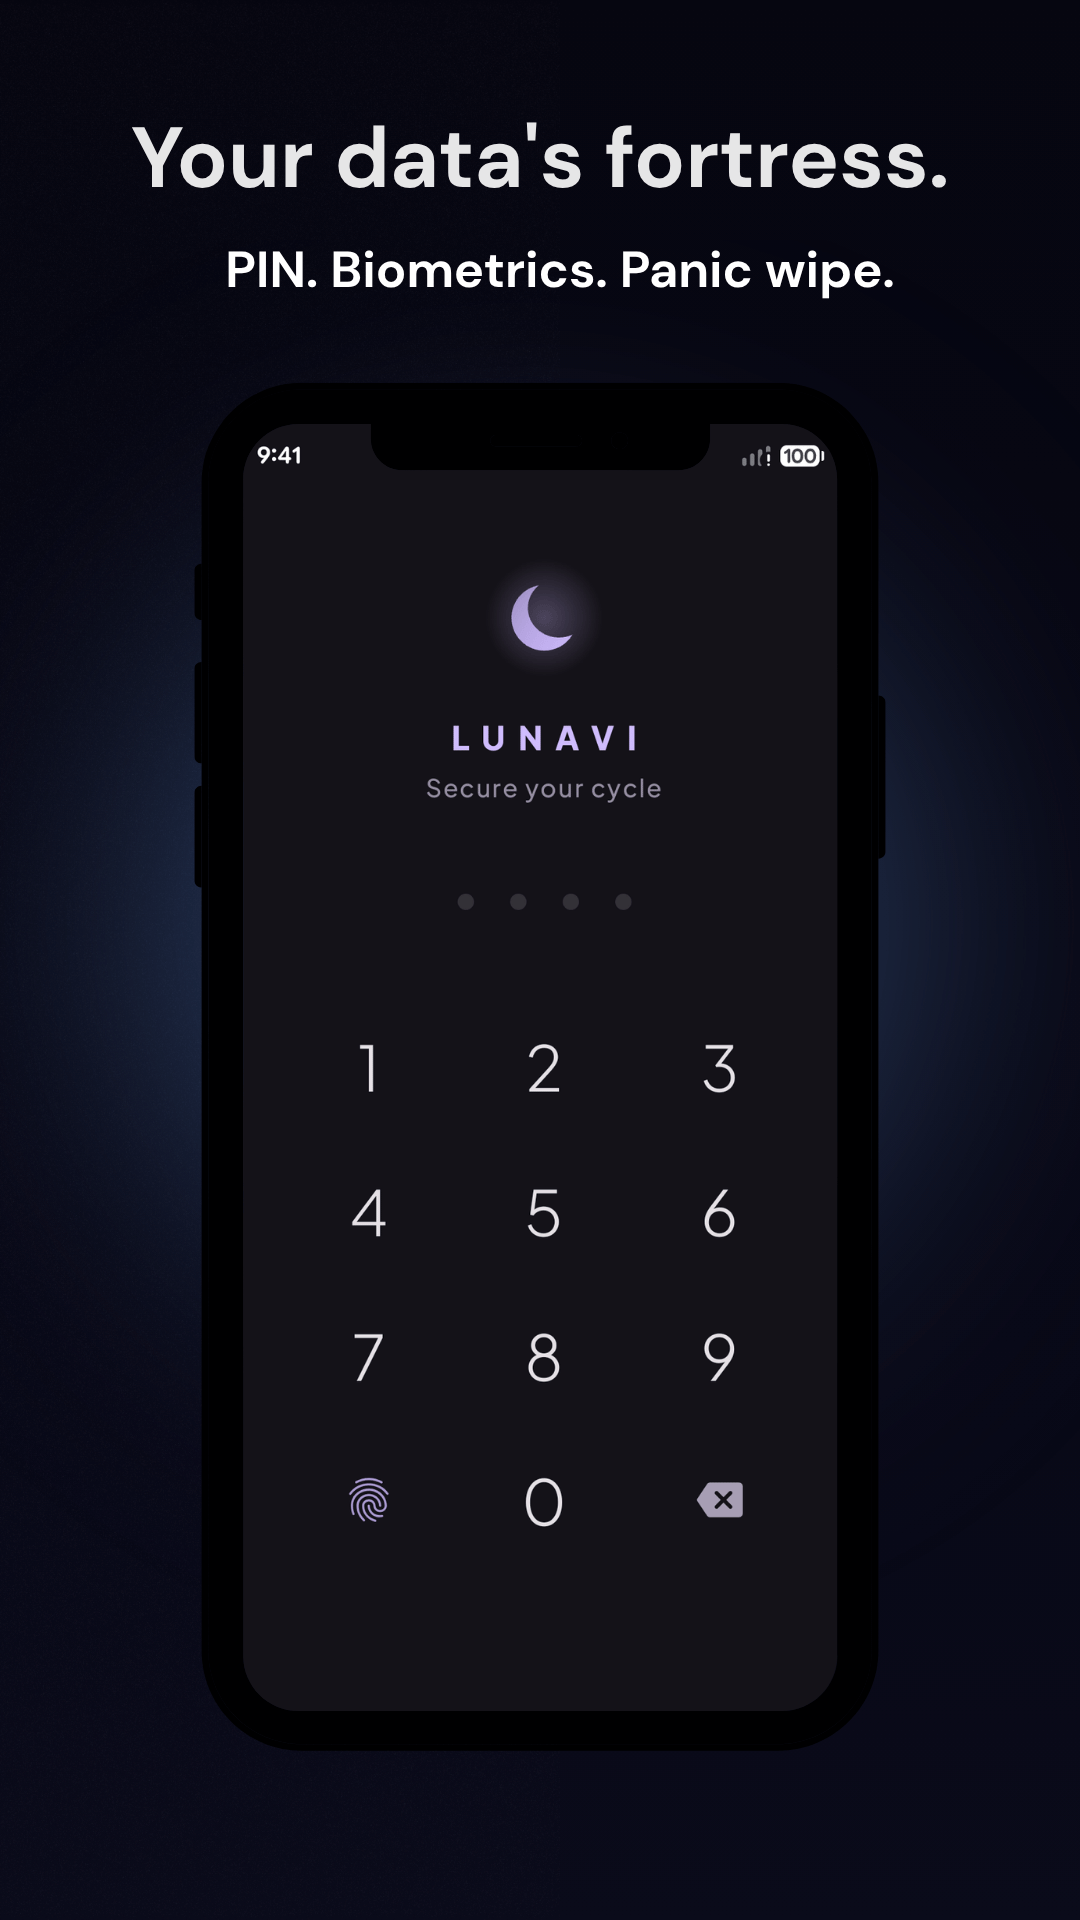
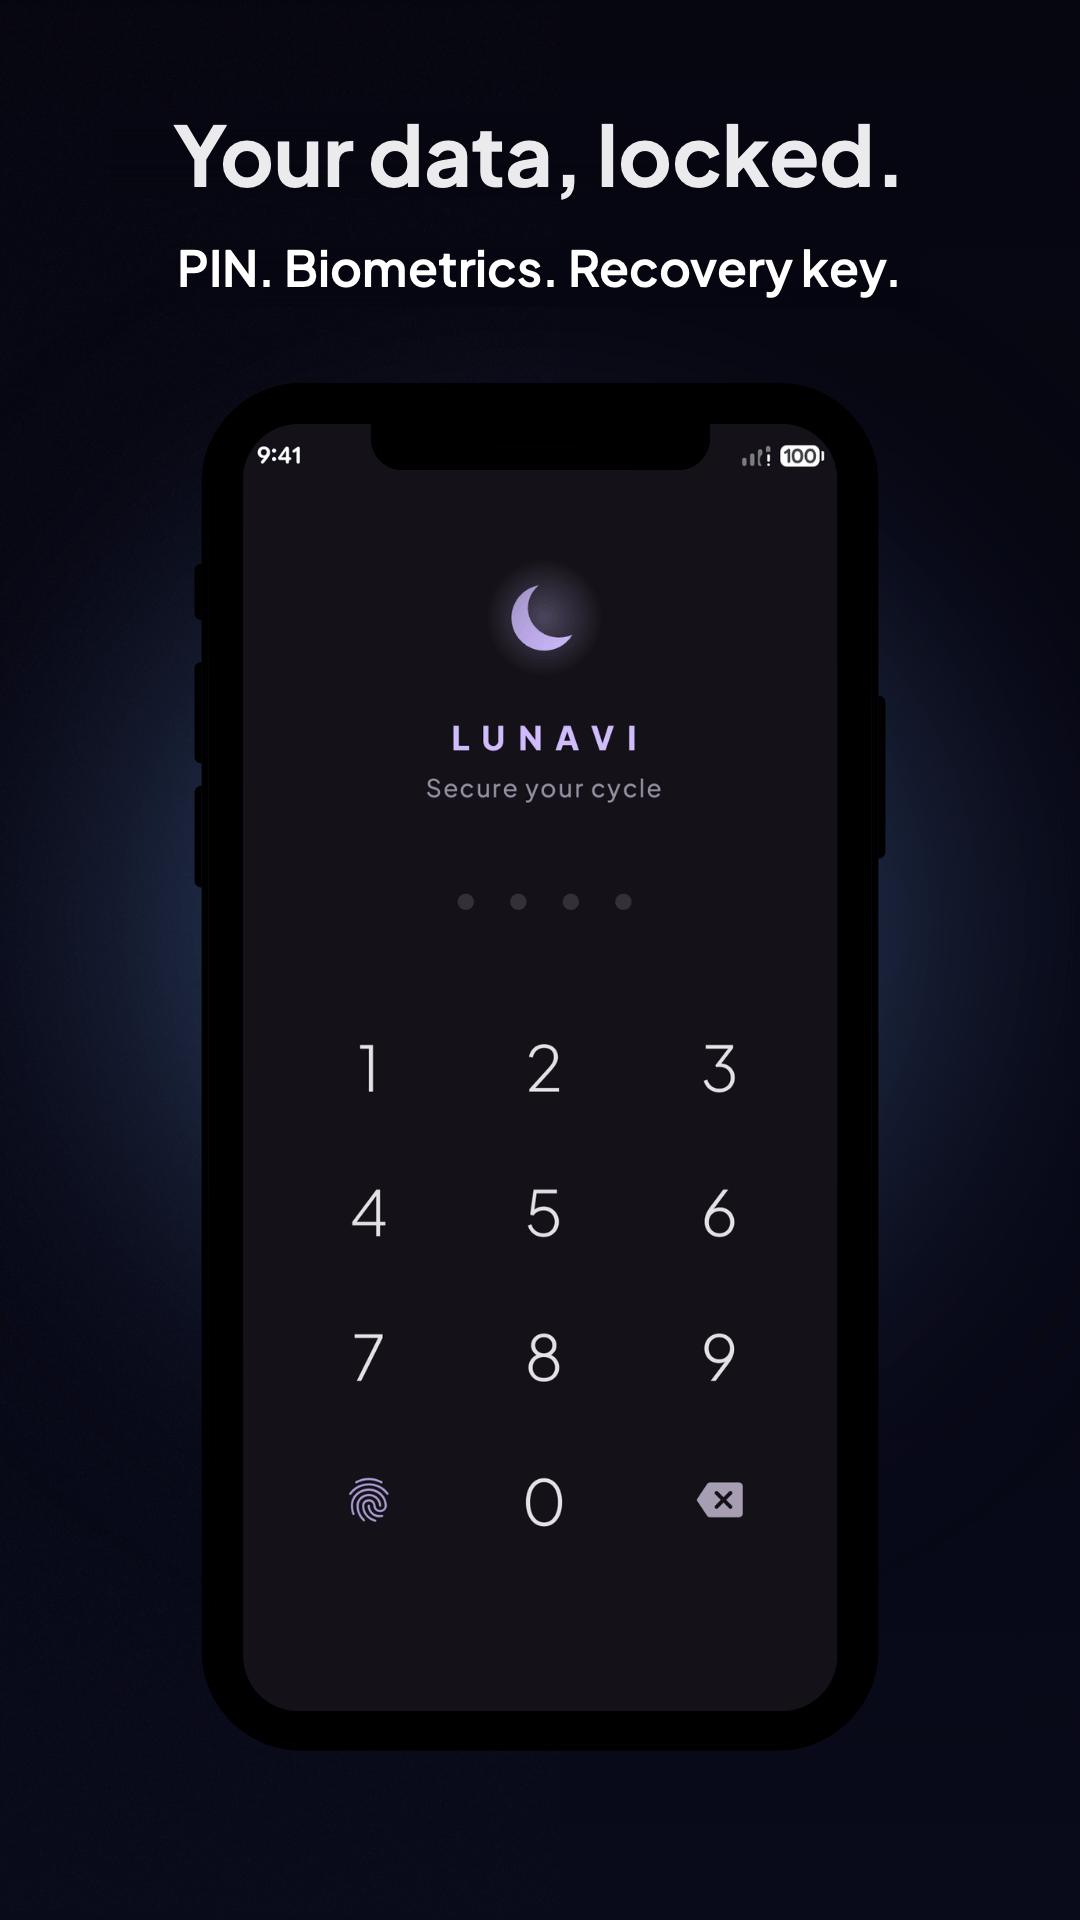
fix: correct Lunavi page claims and add Play stats
Remove AI, panic wipe and other claims the app does not support from the
Lunavi page, the home page card and the README. Align the page title and
medical disclaimer with the store listing.

Replace screenshots 1, 2, 4 and 6 and the hero image chip, delete
screenshot 8, and remap the feature screenshots to match their text.

Show rating, ratings and reviews, and downloads in the stats strip, in
the same layout as the other app pages.

Changed region(s): [[0.1222, 0.0625, 0.8556, 0.1562]]

diff --git a/apps/lunavi/index.html b/apps/lunavi/index.html
@@ -4,11 +4,11 @@
   <meta charset="UTF-8">
   <link rel="icon" type="image/png" href="/assets/developer_logo.png">
   <meta name="viewport" content="width=device-width, initial-scale=1.0">
-  <title>Lunavi — Cycle Tracker & Ovulation App | Abhi Labs</title>
-  <meta name="description" content="Offline period tracker &amp; ovulation predictor for Android. AI cycle predictions on-device. No cloud, no ads, no subscription.">
+  <title>Lunavi — Offline Period Tracker &amp; Ovulation App | Abhi Labs</title>
+  <meta name="description" content="Offline period tracker &amp; ovulation predictor for Android. Cycle predictions run on your device. No cloud, no ads, no subscription.">
   <link rel="canonical" href="https://abhilabs.app/apps/lunavi/">
-  <meta property="og:title" content="Lunavi — Cycle Tracker & Ovulation App">
-  <meta property="og:description" content="AI ovulation predictions and cycle tracking entirely on your device. No cloud, no ads, no compromise.">
+  <meta property="og:title" content="Lunavi — Offline Period Tracker &amp; Ovulation App">
+  <meta property="og:description" content="Ovulation predictions and cycle tracking entirely on your device. No cloud, no ads, no compromise.">
   <meta property="og:url" content="https://abhilabs.app/apps/lunavi/">
   <meta property="og:type" content="website">
   <meta name="twitter:card" content="summary_large_image">
@@ -28,7 +28,7 @@
     "@context": "https://schema.org",
     "@type": "MobileApplication",
     "name": "Lunavi",
-    "description": "Offline period tracker and ovulation predictor for Android. AI cycle predictions on-device. No cloud, no ads, no subscription.",
+    "description": "Offline period tracker and ovulation predictor for Android. Cycle predictions run on your device. No cloud, no ads, no subscription.",
     "operatingSystem": "Android",
     "applicationCategory": "HealthApplication",
     "applicationSubCategory": "Women's Health",
@@ -72,11 +72,11 @@
   <section class="app-hero" aria-label="Lunavi overview">
     <div class="app-hero__text">
       <img src="assets/applogo.png" alt="Lunavi icon" class="app-hero__icon" width="64" height="64" loading="eager">
-      <p class="app-hero__label">Cycle Tracker · Abhi Labs</p>
+      <p class="app-hero__label">Offline Period Tracker · Abhi Labs</p>
       <h1 class="app-hero__title">Lunavi</h1>
       <p class="app-hero__tagline">Your cycle, your data. No cloud. No compromise.</p>
       <ul class="app-hero__bullets">
-        <li>AI ovulation predictions</li>
+        <li>Ovulation predictions from your own cycle</li>
         <li>100% offline — zero cloud</li>
         <li>Zero advertisements, ever</li>
       </ul>
@@ -120,48 +120,48 @@
         </div>
       </div>
       <div class="feature-scroll__content">
-        <div class="feature-item is-active" data-screenshot="assets/1.png">
+        <div class="feature-item is-active" data-screenshot="assets/5.png">
           <span class="feature-num" aria-hidden="true">01</span>
-          <h2 class="feature-name">AI Ovulation Predictions</h2>
-          <p class="feature-desc">On-device machine learning predicts your fertile window. Predictions update as your cycle data grows — no internet, no cloud.</p>
-          <span class="feature-tag"><svg width="11" height="11" viewBox="0 0 24 24" fill="none" stroke="currentColor" stroke-width="2" stroke-linecap="round" stroke-linejoin="round" aria-hidden="true"><path d="M12 2a10 10 0 1 0 0 20 10 10 0 0 0 0-20z"/><path d="M12 8v4l3 3"/></svg>On-Device ML</span>
+          <h2 class="feature-name">Ovulation Predictions</h2>
+          <p class="feature-desc">Lunavi estimates your fertile window and ovulation day from your own cycle history, not a fixed 28-day guess. Predictions update as you log more — no internet, no cloud.</p>
+          <span class="feature-tag"><svg width="11" height="11" viewBox="0 0 24 24" fill="none" stroke="currentColor" stroke-width="2" stroke-linecap="round" stroke-linejoin="round" aria-hidden="true"><path d="M12 2a10 10 0 1 0 0 20 10 10 0 0 0 0-20z"/><path d="M12 8v4l3 3"/></svg>On-Device</span>
         </div>
-        <div class="feature-item" data-screenshot="assets/2.png">
+        <div class="feature-item" data-screenshot="assets/3.png">
           <span class="feature-num" aria-hidden="true">02</span>
           <h2 class="feature-name">Cycle Tracking</h2>
           <p class="feature-desc">Log period start and end, flow intensity, and symptoms. Lunavi builds your personal baseline over time.</p>
         </div>
-        <div class="feature-item" data-screenshot="assets/3.png">
-          <span class="feature-num" aria-hidden="true">03</span>
-          <h2 class="feature-name">Mood Logging</h2>
-          <p class="feature-desc">Track emotional patterns alongside your cycle. See which moods correlate with which phase over months of data.</p>
-        </div>
         <div class="feature-item" data-screenshot="assets/4.png">
+          <span class="feature-num" aria-hidden="true">03</span>
+          <h2 class="feature-name">Symptom &amp; Mood Tracking</h2>
+          <p class="feature-desc">Log 60+ symptoms in 12 categories, including moods such as anxious, calm and irritable. The symptom heatmap shows which ones repeat in each cycle phase.</p>
+        </div>
+        <div class="feature-item" data-screenshot="assets/6.png">
           <span class="feature-num" aria-hidden="true">04</span>
           <h2 class="feature-name">Cycle Insights</h2>
-          <p class="feature-desc">Beautiful charts show your patterns across months. Cycle length trends, symptom frequency, mood shifts — all local, all private.</p>
+          <p class="feature-desc">Beautiful charts show your patterns across months. Cycle length trends, cycle stats, symptom patterns — all local, all private.</p>
         </div>
-        <div class="feature-item" data-screenshot="assets/5.png">
+        <div class="feature-item" data-screenshot="assets/1.png">
           <span class="feature-num" aria-hidden="true">05</span>
           <h2 class="feature-name">Zero Advertisements</h2>
           <p class="feature-desc">Lunavi contains no advertising SDKs. Not a single ad, ever. Your health data is not a product.</p>
           <span class="feature-tag"><svg width="11" height="11" viewBox="0 0 24 24" fill="none" stroke="currentColor" stroke-width="2" stroke-linecap="round" stroke-linejoin="round" aria-hidden="true"><polyline points="20 6 9 17 4 12"/></svg>Zero Ads</span>
         </div>
-        <div class="feature-item" data-screenshot="assets/6.png">
+        <div class="feature-item" data-screenshot="assets/2.png">
           <span class="feature-num" aria-hidden="true">06</span>
           <h2 class="feature-name">Privacy by Architecture</h2>
-          <p class="feature-desc">All data is stored in a local Android Room database. The developer has no server to receive your data — because there isn't one.</p>
-          <span class="feature-tag"><svg width="11" height="11" viewBox="0 0 24 24" fill="none" stroke="currentColor" stroke-width="2" stroke-linecap="round" stroke-linejoin="round" aria-hidden="true"><ellipse cx="12" cy="5" rx="9" ry="3"/><path d="M3 5v14a9 3 0 0 0 18 0V5"/><path d="M3 12a9 3 0 0 0 18 0"/></svg>Room Database</span>
+          <p class="feature-desc">Your logs are stored in an encrypted database on your device. The app has no internet permission, and the developer has no server to receive your data — because there isn't one.</p>
+          <span class="feature-tag"><svg width="11" height="11" viewBox="0 0 24 24" fill="none" stroke="currentColor" stroke-width="2" stroke-linecap="round" stroke-linejoin="round" aria-hidden="true"><ellipse cx="12" cy="5" rx="9" ry="3"/><path d="M3 5v14a9 3 0 0 0 18 0V5"/><path d="M3 12a9 3 0 0 0 18 0"/></svg>Encrypted Database</span>
         </div>
         <div class="feature-item" data-screenshot="assets/7.png">
           <span class="feature-num" aria-hidden="true">07</span>
           <h2 class="feature-name">Private Reminders</h2>
           <p class="feature-desc">Period and fertile window reminders are local notifications. Nothing leaves your device to deliver them.</p>
         </div>
-        <div class="feature-item" data-screenshot="assets/8.png">
+        <div class="feature-item" data-screenshot="assets/5.png">
           <span class="feature-num" aria-hidden="true">08</span>
           <h2 class="feature-name">Data Export</h2>
-          <p class="feature-desc">Export your complete cycle history to a file whenever you want. Your data, your file, on your terms.</p>
+          <p class="feature-desc">Export your history as JSON, CSV, ICS or PDF whenever you want. Your data, your file, on your terms.</p>
         </div>
       </div>
     </div>
@@ -176,9 +176,14 @@
         <span class="social-stat__sub">on Google Play</span>
       </div>
       <div class="social-stat">
-        <span class="social-stat__value">0</span>
-        <span class="social-stat__label">Cloud Uploads</span>
-        <span class="social-stat__sub">ever, by design</span>
+        <span class="social-stat__value">124</span>
+        <span class="social-stat__label">Ratings &amp; Reviews</span>
+        <span class="social-stat__sub">on Google Play</span>
+      </div>
+      <div class="social-stat">
+        <span class="social-stat__value">10K+</span>
+        <span class="social-stat__label">Downloads</span>
+        <span class="social-stat__sub">and counting</span>
       </div>
     </div>
   </div>
@@ -186,7 +191,7 @@
   <!-- Medical disclaimer -->
   <div style="max-width:700px;margin:0 auto 2rem;padding:0 2rem">
     <p style="font-size:12px;line-height:1.6;color:var(--text-3);text-align:center">
-      Lunavi is not a medical device. Ovulation predictions are for informational purposes only and must not be used as a contraceptive method or substitute for professional medical advice. Consult a qualified healthcare provider for reproductive health decisions.
+      Lunavi is a personal wellness tracker. It is not a medical device and does not diagnose, treat, cure, or prevent any medical condition. Predictions are estimates and must not be used as contraception. Consult a healthcare professional for medical advice, diagnosis, or treatment.
     </p>
   </div>
 

diff --git a/index.html b/index.html
@@ -101,9 +101,9 @@
           <img src="/apps/lunavi/assets/applogo.png" alt="Lunavi app icon" class="app-card__icon" width="52" height="52" loading="lazy">
           <div class="app-card__badge app-card__badge--featured" style="--accent:#e11d48">Featured · Health</div>
           <h3 class="app-card__name">Lunavi</h3>
-          <p class="app-card__tagline">Your cycle, your data. AI ovulation predictions that never leave your device.</p>
+          <p class="app-card__tagline">Your cycle, your data. Ovulation predictions that stay on your device.</p>
           <ul class="app-card__features">
-            <li>AI Ovulation Predictions</li>
+            <li>Ovulation Predictions</li>
             <li>100% Offline · Zero Ads</li>
             <li>Mood &amp; Symptom Tracking</li>
           </ul>

diff --git a/README.md b/README.md
@@ -29,7 +29,7 @@ We apply the same rigor found in world-class consumer products to every line of 
 *Your health data. Only yours. No cloud, no compromise.*
 - **🔒 Privacy Sovereign:** No account required. Zero background network activity.
 - **📊 Adaptive Engine:** Precise period and fertility predictions that learn from your rhythm.
-- **🛡 Security Layer:** Biometric lock with an offline-only emergency panic wipe.
+- **🛡 Security Layer:** Biometric lock with an offline recovery key.
 - **🎨 Luna Rose UI:** Modern Material 3 design with OLED-friendly dark modes.
 - [**Explore Landing Page**](./apps/lunavi/index.html) • [**Download on Google Play**](https://play.google.com/store/apps/details?id=com.abhilabs.lunavi)
 
